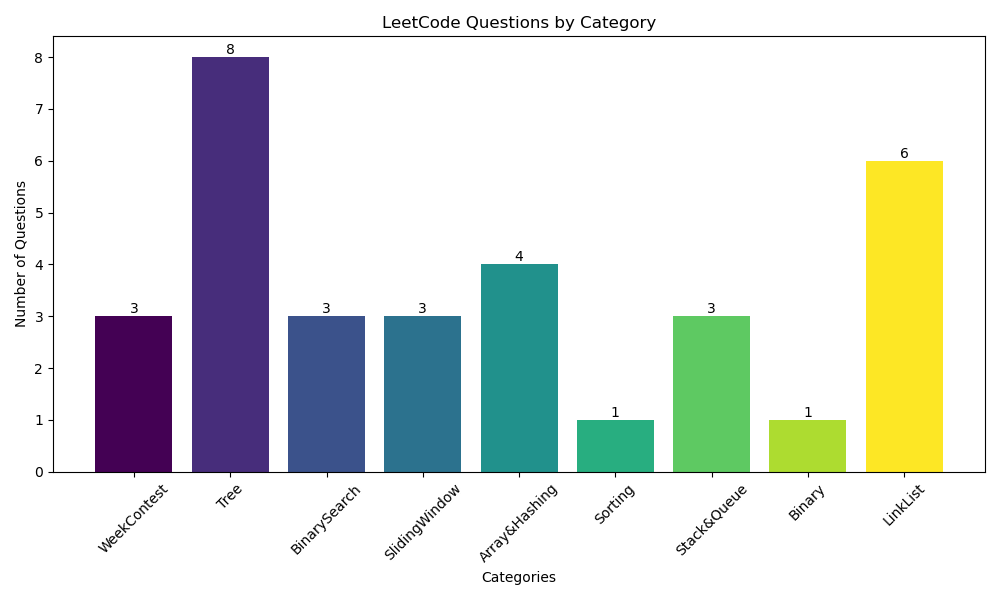
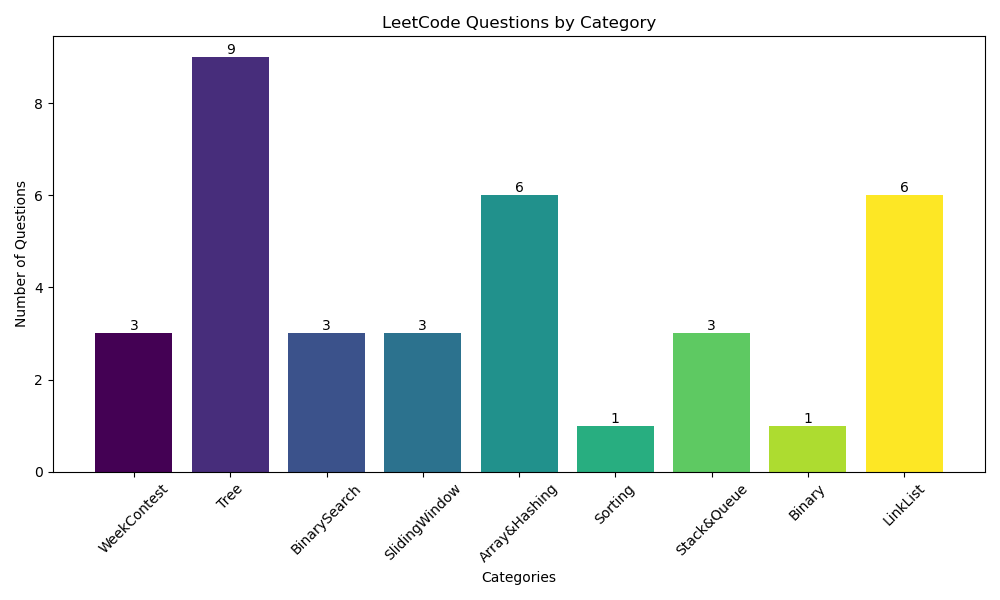
test update readme

diff --git a/Array&Hashing/TopKFreq.cpp b/Array&Hashing/TopKFreq.cpp
@@ -1,0 +1,29 @@
+class Solution {
+  public:
+	vector<int> topKFrequent(vector<int> &nums, int k) {
+
+		/*
+		   used space to trade time complexity
+		*/
+		unordered_map<int, int> count;
+		vector<vector<int>> fraq(
+		    nums.size() +
+		    1); // keeping mind that there may be same fraquenecy number
+		for (auto &n : nums)
+			++count[n];
+
+		for (auto &c : count) {
+			fraq[c.second].push_back(c.first);
+		}
+		vector<int> res;
+		for (int i = fraq.size() - 1; i >= 0; --i) {
+			if (fraq[i].empty())
+				continue;
+			for (auto &f : fraq[i])
+				res.push_back(f);
+			if (res.size() >= k)
+				break;
+		}
+		return res;
+	}
+};

diff --git a/README.md b/README.md
@@ -13,6 +13,7 @@
 - [x] SubTreeOfAnotherTree
 - [x] SameTree
 - [x] BinaryTree
+- [x] levelOrder
 - [x] Depth
 
 ## BinarySearch
@@ -28,8 +29,10 @@
 ## Array&Hashing
 - [x] ValidAnagram
 - [x] 2sum
+- [x] TopKFreq
 - [x] hashtable
 - [x] DuplicateArray
+- [x] anagramGroup
 
 ## Sorting
 - [x] basic_sort
@@ -51,6 +54,6 @@
 - [x] addTwoNums
 
 ## Statistical Chart
-current total questions: 32
+current total questions: 35
 
 <img src="chart.png" alt="questions bar chart" width="500">
